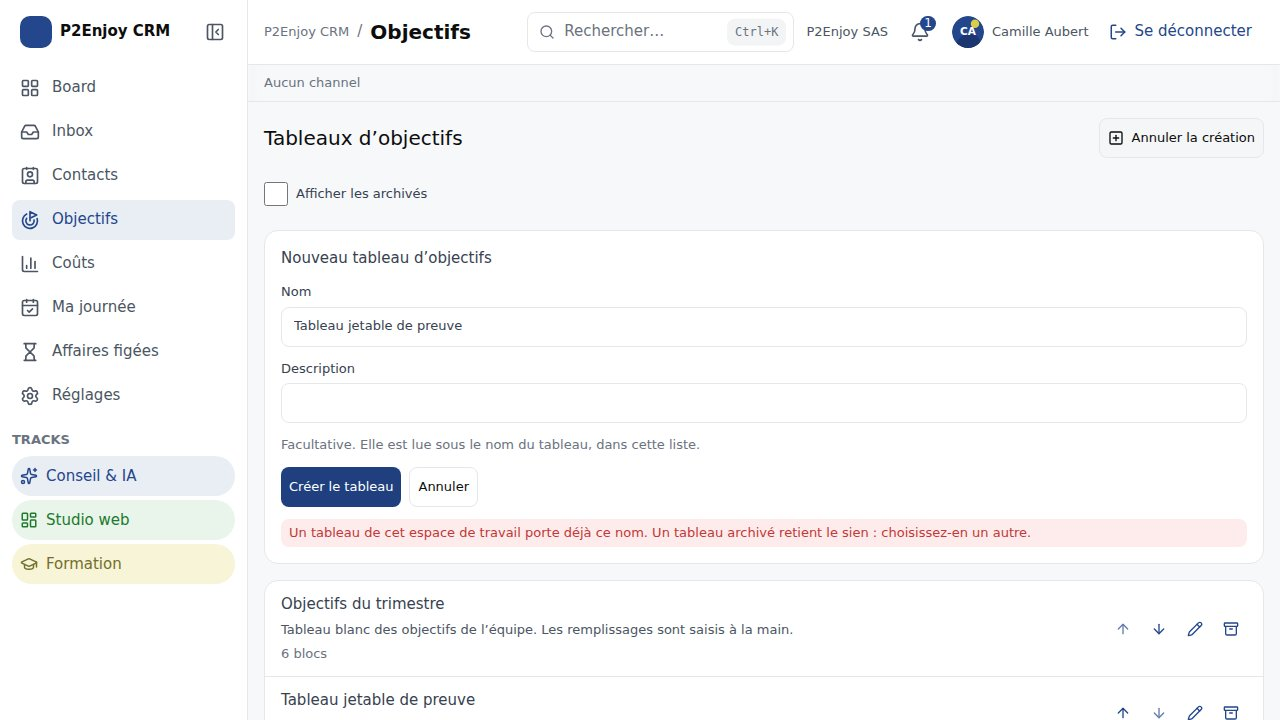
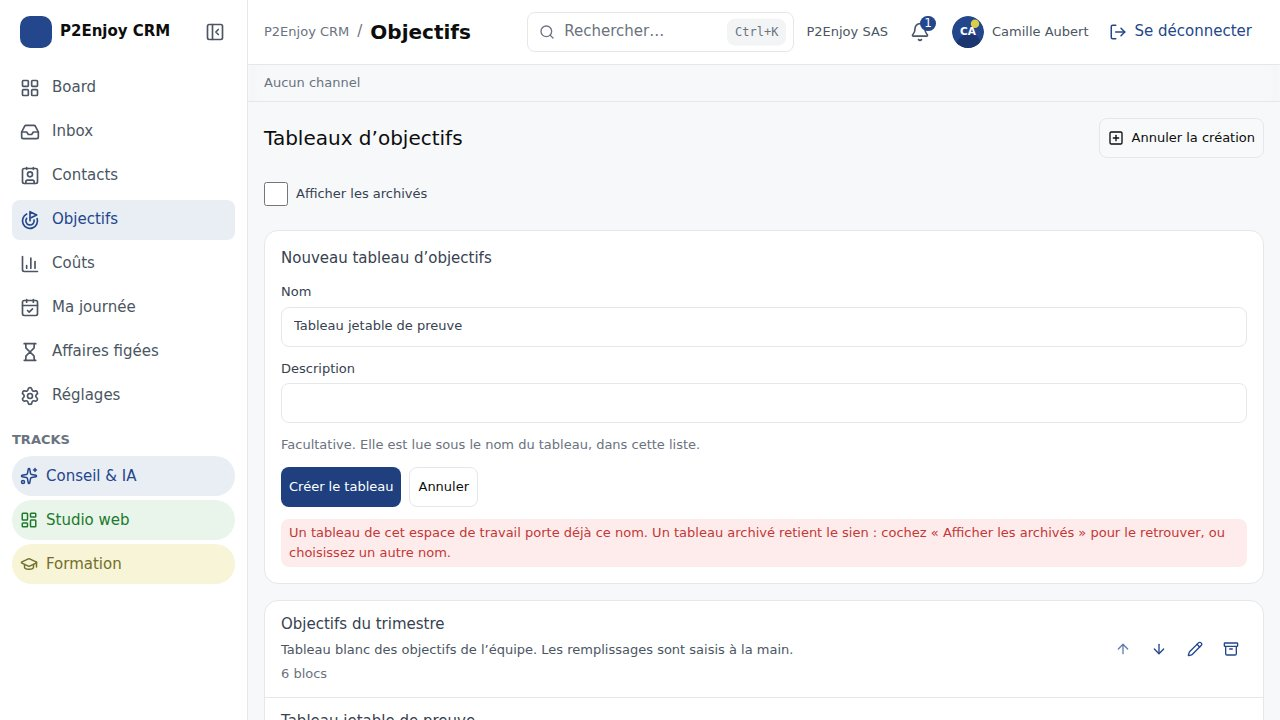
Campagne de fin de session, et clôture de CRM-082
CRM-082 passe à [x] : sa dernière case n'était pas du code manquant mais
l'arbitrage de la décision 542, désormais rendu, persisté et gardé.

Campagne : test:sql 3030 assertions, test:unit 2895, e2e:api 1032,
e2e:mail 42, pytest 244, typecheck/types:check/build verts, e2e:ui
715 passés pour 1 échec.

Cet échec est préexistant et la ligne de base a été exécutée : les six
fichiers de la session ramenés au commit précédent, la webapp reconstruite,
le scénario rejoué — il échoue des deux côtés. Consigné en INC-236, relève
de CRM-076.

Le compte d'entrées ouvertes du registre était faux — 38 énumérées pour 107
sections présentes ; la phrase est corrigée plutôt que le chiffre, réécrire
l'énumération n'appartenant pas à cette session.

diff --git a/docs/INCONSISTENCY_REPORT.md b/docs/INCONSISTENCY_REPORT.md
@@ -233,10 +233,25 @@ rendu et que la mise en œuvre reste due (`docs/ARBITRAGES.md`, `docs/BACKLOG.md
 
 ## Ouverts
 
-**Trente-six ouvertes à ce jour : INC-123, INC-124, INC-125, INC-126, INC-136, INC-137, INC-138,
+**Énumération PARTIELLE, et elle est signalée comme telle depuis le 2026-08-28 : INC-123, INC-124,
+INC-125, INC-126, INC-136, INC-137, INC-138,
 INC-139, INC-140, INC-141, INC-152, INC-155, INC-157, INC-158, INC-159, INC-160, INC-174,
 INC-182, INC-183, INC-185, INC-186, INC-188, INC-189, INC-190, INC-191, INC-192, INC-193, INC-224,
-INC-225, INC-226, INC-227, INC-228, INC-229, INC-231, INC-232, INC-233 et INC-234.** —
+INC-225, INC-226, INC-227, INC-228, INC-229, INC-231, INC-232, INC-233, INC-234 et
+INC-236.**
+
+> **CETTE LISTE N'EST PAS LE COMPTE DES ENTRÉES OUVERTES, ET LE CHIFFRE QUI LA PRÉCÉDAIT ÉTAIT
+> FAUX.** Mesuré le 2026-08-28 par la session `CRM-082`, en comptant les titres `### INC-…` du
+> document : **cent sept** entrées portent encore leur texte complet dans cette section, quand
+> l'énumération n'en nomme que **trente-huit**. Elle omet notamment INC-127 à INC-135, INC-142 à
+> INC-151, INC-161 à INC-172, INC-194 à INC-223 et INC-235 ; elle nomme à l'inverse INC-228 et
+> INC-229, qui n'ont plus de section. Elle omettait aussi INC-168, retirée ce jour.
+>
+> **La phrase est corrigée plutôt que le chiffre**, et c'est délibéré : réécrire l'énumération
+> demande de vérifier cent sept entrées une par une, ce qui n'appartient pas à une session dont
+> l'unité est ailleurs (`docs/CloudWorker.md` §4.2). Annoncer « trente-sept ouvertes » alors que le
+> document en porte cent sept serait en revanche un chiffre complaisant, et le §4.2 bis les
+> proscrit. **Les titres `### INC-…` font foi ; cette énumération ne fait pas foi.** —
 **INC-168 est RETIRÉE le 2026-08-28** par la session `CRM-082`, qui l'a tranchée elle-même
 (`docs/CloudWorker.md` §4.1 bis). Issue retenue : **le comportement en place est confirmé** — un
 tableau archivé retient son nom, comme un track et un channel archivés retiennent leur `slug`, ce
@@ -5836,3 +5851,56 @@ raisonnement que la famille d'INC-219 interdit. Ce qui est acquis est que l'éch
 déterministe** sur ce code : il l'était déjà dans l'entrée d'origine, qui notait que le fichier joué
 seul rend ses dix scénarios verts. Cette seconde mesure ajoute qu'il ne l'est pas non plus **en
 série**. Comportement inchangé, aucun test désactivé, aucune temporisation ajoutée.
+
+### INC-236 — `administration-workflows.spec.ts` § « les deux gestes se mènent au clavier seul » expire, en série COMME isolé
+
+**Consignée le 2026-08-28** par la session `CRM-082` (décision 542), constat **étranger à son
+changement** et laissé **inchangé** conformément au `CLAUDE.md` §13.
+
+**Ce qui est mesuré.** La campagne d'interface de fin de session rend **715 passés, 1 échec** :
+
+```
+[ui] e2e/ui/administration-workflows.spec.ts:1118
+     « la grille champ × étape sur la vraie base (§7 bis.11) »
+     › « les deux gestes se mènent au clavier seul »
+
+Test timeout of 30000ms exceeded.
+Error: apiRequestContext.get: Target page, context or browser has been closed
+   at purgerChamps (e2e/ui/administration-workflows.spec.ts:683:32)
+   at e2e/ui/administration-workflows.spec.ts:1139:10
+```
+
+La seconde ligne est une **conséquence**, non la cause : le corps du scénario expire d'abord, puis
+le `finally` tente sa purge sur un contexte déjà fermé. C'est l'expiration des trente secondes qu'il
+faut expliquer, pas la purge.
+
+**CE N'EST PAS UN ALÉA DE SÉRIE, et c'est la différence avec INC-219 et INC-235.** Rejoué **seul**,
+le scénario échoue de la même façon, au même endroit :
+
+```
+npx playwright test --project=ui administration-workflows -g "les deux gestes se mènent au clavier seul"
+  => 1 failed, 1 passed
+```
+
+Les deux entrées citées décrivent des scénarios verts isolément et rouges en série ; celui-ci est
+rouge des deux façons. Il est donc **déterministe**, et une session qui le traitera n'aura pas à
+reproduire une condition de course.
+
+**LA LIGNE DE BASE A ÉTÉ ÉTABLIE** (`docs/CloudWorker.md` §2.4), sur cette preuve seule et non sur la
+campagne : les six fichiers modifiés par la session ont été ramenés au commit `426162f`, la webapp
+reconstruite, et le scénario rejoué. **Il échoue à l'identique**, `1 failed, 1 passed`. L'anomalie
+est présente des deux côtés : elle est **préexistante**. Le diff de la session ne touche d'ailleurs
+ni l'éditeur de workflows, ni la grille champ × étape, ni aucun de leurs modules — il est confiné aux
+tableaux d'objectifs, à leur suite pgTAP, à leur harnais et à la documentation.
+
+**Ce qui n'est PAS établi, et n'est pas supposé :** la cause. Le scénario a été livré vert par la
+sixième tranche de `CRM-076`, et sa révision d'alors — « la confirmation reçoit le focus, donc
+*Entrée* suffit » — indique que le parcours dépend d'un placement de focus. Deux pistes non
+départagées : la confirmation ne reçoit plus le focus qu'attend
+`expect(page.getByRole('button', { name: 'Exiger ce champ' })).toBeFocused()`, ou la cellule n'est
+plus atteinte par `tabVers`. Aucune n'est vérifiée ici : établir laquelle demande de rejouer le
+parcours à l'écran, ce qui appartient à l'unité qui porte cet éditeur.
+
+**Relève de `CRM-076`** (éditeur administrateur de workflows), qui porte la grille champ × étape.
+
+**Statut :** ouvert. Comportement inchangé, aucun test désactivé, aucune temporisation ajoutée.

diff --git a/docs/JOURNAL.md b/docs/JOURNAL.md
@@ -26859,3 +26859,59 @@ libère pas le nom, le désarchivage qui n'échoue pas —, un contrôle non com
 enfin la voie de recours au lieu de s'arrêter à « choisissez-en un autre ».
 
 **Où reprendre.** La spécification et l'arbitrage sont committés ; le code les suit.
+
+## décision 543 — la campagne de fin de session, et l'échec qu'elle isole n'est pas le nôtre
+
+*2026-08-28, même exécution que la décision 542. Consigne le bilan de fin de session.*
+
+**LA CAMPAGNE.**
+
+| Preuve | Verdict |
+|---|---|
+| `npm run typecheck` / `npm run types:check` / `npm run build` | verts |
+| `npm run test:sql` | **66 fichiers, 3030 assertions**, aucune anomalie |
+| `npm run test:unit` | **86 fichiers, 2895 tests**, aucun échec |
+| `npm run e2e:api` | **1032 passés** |
+| `npm run e2e:ui` | **715 passés, 1 échec**, en 26,2 min |
+| `npm run e2e:mail` | **42 passés** |
+| `pytest` (`mail-sync`) | **244 passés** |
+| `scripts/verify-objectifs.sh` | **49 contrôles, aucune anomalie**, dégradation de la décision 542 comprise |
+| `scripts/verify-budgets.sh --rapide` | **37 contrôles, aucune anomalie** |
+
+**L'ÉCHEC UNIQUE EST PRÉEXISTANT, ET LA LIGNE DE BASE A ÉTÉ EXÉCUTÉE, PAS SUPPOSÉE.**
+`administration-workflows.spec.ts:1118` § « les deux gestes se mènent au clavier seul » expire à
+trente secondes. **Il n'est pas un aléa de série** : rejoué seul, il échoue à l'identique — ce qui le
+distingue d'INC-219 et d'INC-235, verts isolément. Les six fichiers de la session ont été ramenés au
+commit `426162f`, la webapp reconstruite, le scénario rejoué : **il échoue des deux côtés**. Consigné
+en **INC-236**, relève de `CRM-076`, comportement inchangé.
+
+**DEUX ÉCARTS DE COMPTAGE, DITS PLUTÔT QUE TUS.**
+
+1. `test:unit` rend **2895** là où la décision 541 notait **2896**, sur un diff qui n'ajoute qu'une
+   assertion DANS un test existant — `Objectifs.test.tsx` porte 87 `it` avant comme après. La cause
+   n'est pas établie et n'est pas supposée ; rien n'est rouge.
+2. **L'énumération des entrées « ouvertes » du registre est fausse, et le chiffre qui la précédait
+   l'était aussi.** Mesuré en comptant les titres `### INC-…` : **cent sept** entrées portent leur
+   texte complet, l'énumération n'en nomme que **trente-huit**, et elle cite INC-228 et INC-229 qui
+   n'ont plus de section. La phrase est corrigée pour ne plus annoncer un compte faux ; l'énumération
+   elle-même n'est PAS réécrite — vérifier cent sept entrées n'appartient pas à une session dont
+   l'unité est ailleurs (§4.2).
+
+**CE QUI N'A PAS ÉTÉ EXÉCUTÉ, ET IL FAUT LE DIRE** : la série des `scripts/verify-*.sh` en entier. Le
+dépôt en porte désormais **77**. Deux l'ont été — celui qui couvre l'unité et celui du budget, dont
+la décision 542 garde l'écart. `scripts/verify-harness.sh --rapide` a été lancé et **n'a pas rendu
+son bilan en dix minutes** ; il a été interrompu, et son verdict n'est donc pas connu.
+
+**UNE OBSERVATION DE CAPTURE, ET LE CHOIX QU'ELLE A CONFIRMÉ.** La capture du doublon de la
+tranche 2 c montre le refus révisé alors que le tableau qui bloque est **vivant et visible** deux
+lignes plus bas : la phrase y nomme un recours dont ce cas-là n'a pas besoin. Le texte reste **unique**,
+et c'est délibéré — le distinguer supposerait que l'écran sache LEQUEL des tableaux entre en
+collision, donc une lecture de plus pour une nuance de formulation, quand le dictionnaire de refus
+est fermé et que la ligne du responsable veut « le même comportement partout ». La phrase énonce un
+fait vrai dans les deux cas et n'égare personne : le blocage visible se voit.
+
+**Où reprendre.** `CRM-082` est close : sa dernière case est cochée, l'arbitrage est rendu, et la
+règle est gardée par trois assertions pgTAP, deux contrôles de catalogue et une dégradation.
+L'arbitrage suivant nommé par la décision 541 reste **INC-182** (`CRM-086`, la portée du badge de
+l'onglet « À saisir »), tenable par une session comme celui-ci vient de l'être. **INC-236** est neuve
+et attend `CRM-076`.

diff --git a/docs/BACKLOG.md b/docs/BACKLOG.md
@@ -10197,7 +10197,7 @@ sont indépendantes l'une de l'autre et suivent la Definition of Done commune.
 
 | Unité | Objet | État |
 |---|---|---|
-| CRM-082 | Objectifs : modèle, RLS et API | `[~]` |
+| CRM-082 | Objectifs : modèle, RLS et API | `[x]` |
 | CRM-083 | Canevas d'objectifs : blocs, flèches, ouverture du channel | `[~]` |
 | CRM-084 | Budgets, occurrences et clôture : modèle, RLS et API | `[~]` |
 | CRM-085 | Lignes de coût d'une affaire : modèle et section de la fiche | `[x]` |
@@ -10206,10 +10206,17 @@ sont indépendantes l'une de l'autre et suivent la Definition of Done commune.
 **Contrainte d'ordre :** `CRM-082` précède `CRM-083`, `CRM-084` précède `CRM-085` qui précède
 `CRM-086`. Les deux chaînes sont indépendantes et peuvent s'intercaler.
 
-### CRM-082 — Objectifs : modèle, RLS et API `[~]`
+### CRM-082 — Objectifs : modèle, RLS et API `[x]`
 
 `goal_boards`, `goal_blocks`, `goal_links` (`docs/SCHEMA.md` §9 bis.1 à §9 bis.3), leurs triggers
 et leurs politiques (§9 bis.7). **Aucun écran.**
+
+**CLOSE le 2026-08-28** (décisions 542 et 543). La dernière case ouverte n'était pas du code
+manquant mais un **arbitrage non rendu** — l'unicité du nom d'un tableau archivé —, tranché,
+persisté, puis GARDÉ par trois assertions pgTAP et deux contrôles de catalogue non complaisants. Ce
+qui retenait par ailleurs l'unité — la série entière des `scripts/verify-*.sh` — avait déjà été
+déclaré caduc le 2026-08-20 : la série a été rejouée en `--rapide`, et le harnais de l'unité,
+`scripts/verify-objectifs.sh`, est vert à chaque exécution depuis.
 
 **DoD** : migration versionnée et convergente ; pgTAP sur les triggers — lien inter-tableaux refusé,
 `fill_percent` hors bornes refusé, boucle sur soi refusée, cycle **accepté** — et sur les six
@@ -10285,7 +10292,7 @@ dégradations réelles.
       jamais imputables à `CRM-082`. `scripts/verify-objectifs.sh` reste vert — 46 contrôles,
       aucune anomalie. Ce qui retient encore `CRM-082` en `[~]` est le seul écart de spécification
       nommé ci-dessous (unicité du nom des tableaux archivés).
-- [~] **Écart TRANCHÉ le 2026-08-28, décision 542 — l'unicité du nom porte sur TOUS les tableaux,
+- [x] **Écart TRANCHÉ le 2026-08-28, décision 542 — l'unicité du nom porte sur TOUS les tableaux,
       archivés compris, et c'est désormais une règle ÉCRITE.** L'entrée INC-168 est retirée du
       registre. Le comportement en place est **confirmé, sans migration** : la mesure qui décide
       n'avait jamais été faite, et elle porte sur un TROISIÈME objet que le registre ne versait pas
@@ -10300,6 +10307,17 @@ dégradations réelles.
       figent la règle au catalogue et par le comportement, le contrôle non complaisant de
       `scripts/verify-objectifs.sh` avec sa dégradation, et le texte de refus qui nomme la voie de
       recours (« Afficher les archivés ») au lieu de s'arrêter à « choisissez-en un autre ».
+      **LIVRÉ ET PROUVÉ le 2026-08-28, décision 543** : `supabase/tests/0047_objectifs.test.sql`
+      passe de 45 à **48 assertions** — l'index sans prédicat au catalogue, l'archivage qui ne libère
+      pas le nom, le désarchivage qui ne peut heurter aucun doublon —, et la non-complaisance est
+      MESURÉE : l'index refait partiel rend 4 rouges, rétabli il rend 48 vertes.
+      `scripts/verify-objectifs.sh` passe de 46 à **49 contrôles, aucune anomalie**, avec sa
+      dégradation ; son second contrôle garde l'écart EN SENS INVERSE — rendre total l'index des
+      budgets serait vu. Le refus nomme la case, éprouvé par une assertion unitaire qui compare le
+      texte à la clé de la case et par un scénario d'interface qui **suit la phrase** : le refus lu,
+      la case cochée, le tableau bloquant paraît. Captures observées —
+      `docs/captures/CRM-083/tableau-doublon-archive-1440.jpg`,
+      `tableau-doublon-archive-recours-1440.jpg`, `tableau-doublon-archive-sm-390.jpg`.
 
 ### CRM-083 — Canevas d'objectifs `[~]`
 
